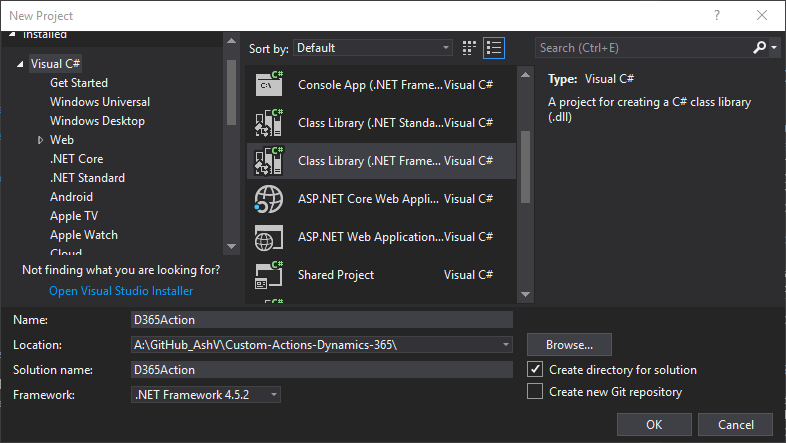
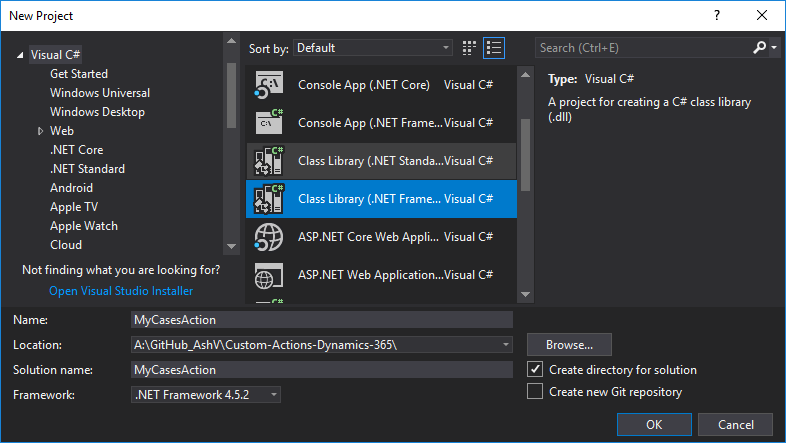
completed coding part

diff --git a/FetchXmlFormatter/index.html b/FetchXmlFormatter/index.html
@@ -19,7 +19,7 @@
             <h1>&lt;online<font color="#9b4dca">/</font>&gt;</h1>-->
             <div style="bottom:0px; position:absolute;">
                 <h2><a href="https://www.linkedin.com/in/ashish-vishwakarma-62492397/">Open for new job opportunity, #HireMe</a></h2>
-                <a href="https://www.ashishvishwakarma.com/">Read my articles!</a>
+                <a href="https://www.ashishvishwakarma.com/posts">Read my articles!</a>
                 <br />
                 <a class="github-button" href="https://github.com/AshV" data-size="large" data-show-count="true" aria-label="Follow @AshV on GitHub">Follow @AshV</a>
                 <a class="github-button" href="https://github.com/AshV/FetchXmlFormatter" data-icon="octicon-star" data-size="large" data-show-count="true" aria-label="Star AshV/FetchXmlFormatter on GitHub">Star</a>

diff --git a/Writing-Custom-Actions-C-Sharp-Code-Dynamics-365/ReadMe.md b/Writing-Custom-Actions-C-Sharp-Code-Dynamics-365/ReadMe.md
@@ -1,3 +1,157 @@
 # Creating Custom Actions for Dynamics 365 with C\#
 
+### Step 1: Create New Project
+
+In Visual Studio create new project of type Class Library & select framework version 4.5.2, this might change for future versions. Name I have given as **MyCasesAction**, which tells the purpose of the workflow.
+
 ![new-project](assets/new-project.png)
+
+### Step 2: Add Required Packags
+
+Goto manage nugget packages and install **Microssoft.CrmSdk.CoreAssemblies**(for Microsoft.Xrm.Sdk namespace) & **Microssoft.CrmSdk.Workflow**(for Microsoft.Xrm.Sdk.Workflow namespace).
+
+![nugget-packages](assets/nugget-packages.png)
+
+### Step 3: Create MyCasesAction Class
+
+Create class **MyCasesAction** and inherited from **CodeActivity**, it would require to add **System.Activities** namespace.
+
+```csharp
+using System.Activities;
+
+namespace MyCasesAction
+{
+    public class MyCasesAction : CodeActivity
+    {
+        protected override void Execute(CodeActivityContext context)
+        {
+
+        }
+    }
+}
+```
+
+### Step 4: Adding Parameters
+
+We will have 2 output parameters one containing count of cases, other having name of cases separated by comma. User's GUID we will take from context.
+
+```csharp
+using Microsoft.Xrm.Sdk.Workflow;
+using System.Activities;
+
+namespace MyCasesAction
+{
+    public class MyCasesAction : CodeActivity
+    {
+        [Output("Count of Cases")]
+        public OutArgument<int> CaseCount { get; set; }
+
+        [Output("Name of Cases")]
+        public OutArgument<string> CaseNames { get; set; }
+
+        protected override void Execute(CodeActivityContext context)
+        {
+
+        }
+    }
+}
+```
+
+### Step 5: Adding Logic to Retrieve User Cases
+
+```csharp
+using Microsoft.Xrm.Sdk;
+using Microsoft.Xrm.Sdk.Query;
+using Microsoft.Xrm.Sdk.Workflow;
+using System.Activities;
+using System.Collections.Generic;
+
+namespace MyCasesAction
+{
+    public class MyCasesAction : CodeActivity
+    {
+        [Output("Count of Cases")]
+        public OutArgument<int> CaseCount { get; set; }
+
+        [Output("Name of Cases")]
+        public OutArgument<string> CaseNames { get; set; }
+
+        protected override void Execute(CodeActivityContext context)
+        {
+            // Getting OrganizationService from Context
+            var workflowContext = context.GetExtension<IWorkflowContext>();
+            var serviceFactory = context.GetExtension<IOrganizationServiceFactory>();
+            var orgService = serviceFactory.CreateOrganizationService(workflowContext.UserId);
+
+            // fetchXml to retrieve cases for current user
+            var fetchXmlCurrentUserCases = @"
+            <fetch version='1.0' output-format='xml-platform' mapping='logical' distinct='false'>
+              <entity name='incident'>
+                <attribute name='title' />
+                <filter type='and'>
+                  <condition attribute='ownerid' operator='eq-userid' />
+                </filter>
+              </entity>
+            </fetch>";
+
+            // Retrieving cases using fetchXml
+            var cases = orgService.RetrieveMultiple(
+                new FetchExpression(
+                    fetchXmlCurrentUserCases));
+
+            // Null check
+            if (cases == null || cases?.Entities == null) return;
+
+            // Adding Case names/titles to list
+            var allCases = new List<string>();
+            foreach (var cs in cases.Entities)
+                allCases.Add(cs["title"].ToString());
+
+            // Set Count of cases to CaseCount
+            CaseCount.Set(context, cases.Entities.Count);
+
+            // Set comma separated Case Titles to CaseNames
+            CaseNames.Set(context, string.Join(",", allCases.ToArray()));
+        }
+    }
+}
+```
+
+### Step 6: Signing the Assembly
+
+In Dynamics 365 it is necessary to sign the assembly before registering. To do this
+1. Right click on project, click on properties to open.
+2. On left pane, click on Signing.
+3. Check Sign the assembly checkbox.
+4. In Choose a strong name key file dropdown click New...
+5. Crete Strong Name Key popup will appear.
+6. Give some name.
+7. Optionally you can protect this key file with password.
+8. Click Ok to generate key and sign the assembly.
+9. Build the solution
+
+![sign-assembly](assets/sign-assembly.png)
+
+### Step 7: Register the Assembly in Dynamics 365
+
+Open the Plugin Registration Tool and connect with your organization. If you don't already have, grab it by adding **Microsoft.CrmSdk.XrmTooling.PluginRegistrationTool** nuget package.
+
+**1.** Click on Register then Register New Assembly.
+
+![Register-New-Assembly](assets/Register-New-Assembly.png)
+
+**2.** Register New Assembly popup will appear, select your project DLL from bin/debug folder of project.
+
+![Load-Assembly](assets/Load-Assembly.png)
+
+**3.** After selecting DLL, make sure Select All is selected in Step 2.
+
+![Select-All](assets/Select-All.png)
+
+**4.** Leave rest of he options as it is and click **Register Selected Plugins**, it should register your assembly successfully.
+
+![Registered](assets/Registered.png)
+
+**5.** You can verify the assembly after registering in Plugin Registration Tool.
+
+![Verify-DLL](assets/Verify-DLL.png)
